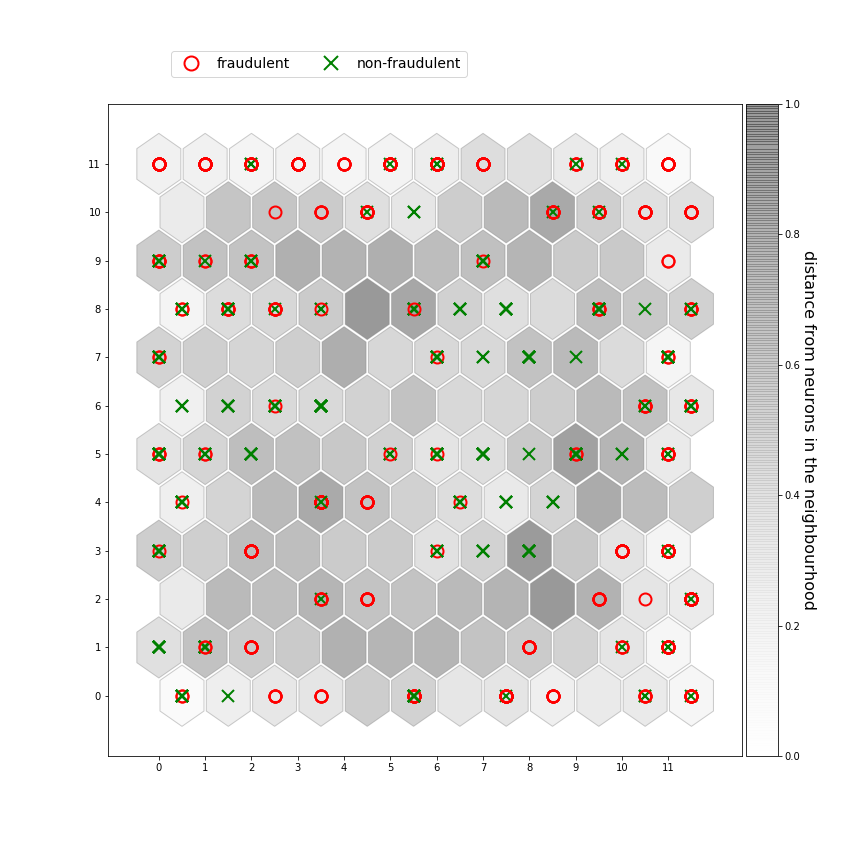
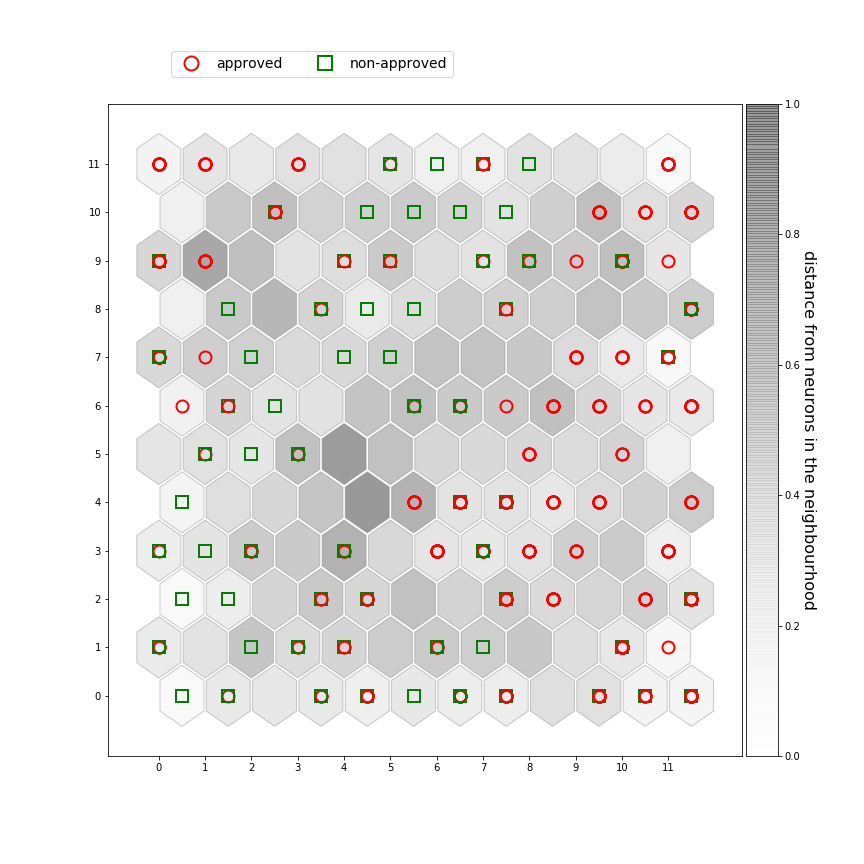
Do final changes

diff --git a/main.py b/main.py
@@ -38,7 +38,7 @@ for i in range(weights.shape[0]):
                       facecolor=cm.Greys(umatrix[i, j]), alpha=.4, edgecolor='gray')
         ax.add_patch(hex)
 
-markers = ['o', 'x']
+markers = ['o', 's']
 colors = ['r', 'g']
 for cnt, x in enumerate(X):
     w = som.winner(x)  # getting the winner
@@ -62,9 +62,9 @@ cb1.ax.set_ylabel('distance from neurons in the neighbourhood',
                   rotation=270, fontsize=16)
 plt.gcf().add_axes(ax_cb)
 
-legend_elements = [Line2D([0], [0], marker='o', color='r', label='fraudulent',
+legend_elements = [Line2D([0], [0], marker='o', color='r', label='approved',
                    markerfacecolor='w', markersize=14, linestyle='None', markeredgewidth=2),
-                   Line2D([0], [0], marker='x', color='g', label='non-fraudulent',
+                   Line2D([0], [0], marker='s', color='g', label='non-approved',
                    markerfacecolor='w', markersize=14, linestyle='None', markeredgewidth=2)]
 ax.legend(handles=legend_elements, bbox_to_anchor=(0.1, 1.08), loc='upper left', 
           borderaxespad=0., ncol=2, fontsize=14)

diff --git a/som.py b/som.py
@@ -19,7 +19,6 @@ def _build_iteration_indexes(data_len, num_iterations, random_generator=None):
 
 def fast_norm(x):
     """Returns norm-2 of a 1-D numpy array.
-    * faster than linalg.norm in case of 1-D arrays (numpy 1.9.2rc1).
     """
     return sqrt(dot(x, x.T))
 
@@ -39,7 +38,7 @@ def asymptotic_decay(learning_rate, t, max_iter):
 
 class SelfMap(object):
     def __init__(self, x, y, input_len, sigma=1.0, learning_rate=0.5):
-        """Initializes a Self Organizing Maps.
+        """Initializes a Self Organizing Map.
         Parameters
         ----------
         x : int
